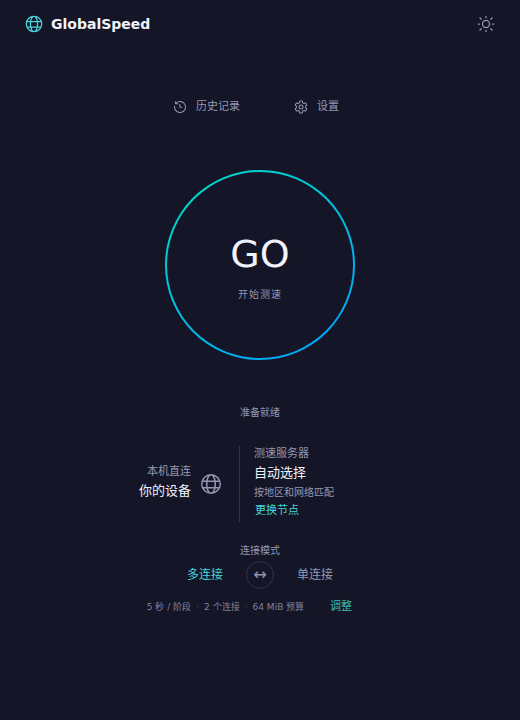
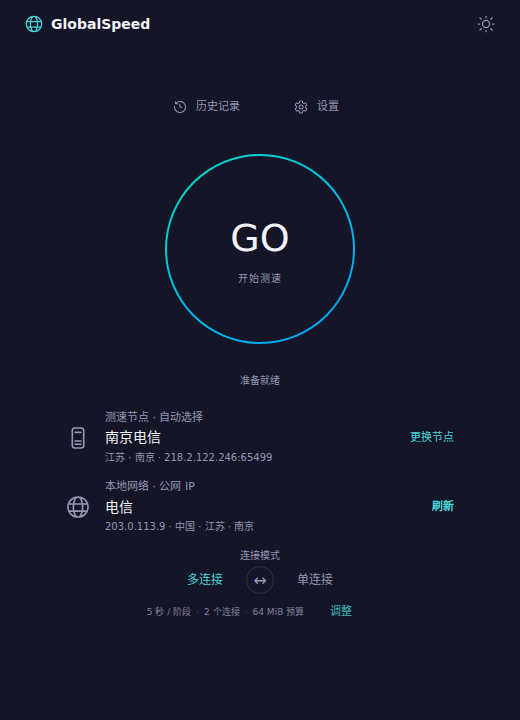
Show public network information and preselect desktop speed server

diff --git a/frontend/src/main.tsx b/frontend/src/main.tsx
@@ -1,7 +1,7 @@
 import React, {useEffect, useMemo, useState} from 'react';
 import {createRoot} from 'react-dom/client';
 import {FluentProvider,webLightTheme,webDarkTheme,Button,Card,Select,Input,Field,Table,TableHeader,TableRow,TableHeaderCell,TableBody,TableCell,Switch,Dialog,DialogSurface,DialogBody,DialogTitle,DialogContent,DialogActions} from '@fluentui/react-components';
-import {ArrowDown24Regular,ArrowUp24Regular,Dismiss24Regular,Globe24Regular,History24Regular,Settings24Regular,Search24Regular,WeatherMoon24Regular,WeatherSunny24Regular} from '@fluentui/react-icons';
+import {ArrowDown24Regular,ArrowUp24Regular,Dismiss24Regular,Globe24Regular,Server24Regular,History24Regular,Settings24Regular,Search24Regular,WeatherMoon24Regular,WeatherSunny24Regular} from '@fluentui/react-icons';
 import './style.css';
 import {Speedometer} from './Speedometer';
 import {useAnimatedSpeed} from './useAnimatedSpeed';
@@ -12,7 +12,8 @@ type Ping={method:string;averageMs:number;jitterMs:number;sent:number;received:n
 type Result={ping?:Ping;time:string;server:Server;path:string;tcpMedianMs:number;tcpJitterMs:number;httpMedianMs?:number;httpJitterMs?:number;download:Transfer;upload:Transfer;released:boolean};
 type Progress={ping?:Ping;server?:Server;phase:string;mbps:number;bytes:number;elapsedMs:number;tcpMedianMs?:number;tcpJitterMs?:number;httpMedianMs?:number;httpJitterMs?:number};
 type Options={auto:boolean;match:{province:string;operator:string};serverId:string;durationSeconds:number;connections:number;maxMiB:number};
-type Bridge={ListServers:()=>Promise<Server[]>;History:()=>Promise<Result[]>;StartSpeed:(o:Options)=>Promise<void>;StopSpeed:()=>Promise<void>};
+type NetworkInfo={ip:string;operator:string;country:string;province:string;city:string;location:string};
+type Bridge={NetworkInfo:()=>Promise<NetworkInfo>;SelectServer:(o:{ip:string;province:string;city:string;operator:string})=>Promise<Server>;ListServers:()=>Promise<Server[]>;History:()=>Promise<Result[]>;StartSpeed:(o:Options)=>Promise<void>;StopSpeed:()=>Promise<void>};
 declare global{interface Window{go?:{main:{App:Bridge}};runtime?:{EventsOn:(name:string,handler:(data:any)=>void,max:number)=>void;EventsOff:(name:string)=>void}}}
 const bridge=()=>window.go?.main.App;
 const number=(value:number|undefined)=>value===undefined?'—':value.toFixed(2);
@@ -24,6 +25,8 @@ function App(){
  const [duration,setDuration]=useState(5);const [connections,setConnections]=useState(2);const [budget,setBudget]=useState(64);
  const [latency,setLatency]=useState<Ping|null>(null);
  const [auto,setAuto]=useState(true);const [autoNode,setAutoNode]=useState<Server|null>(null);
+ const [networkInfo,setNetworkInfo]=useState<NetworkInfo|null>(null);const [networkLoading,setNetworkLoading]=useState(true);const [networkError,setNetworkError]=useState('');
+ const [selecting,setSelecting]=useState(true);const [selectionVersion,setSelectionVersion]=useState(0);
  const [matchFailure,setMatchFailure]=useState(false);
  const [running,setRunning]=useState(false);const [closing,setClosing]=useState(false);const [status,setStatus]=useState('准备就绪');const [error,setError]=useState('');
  const [progress,setProgress]=useState<Progress|null>(null);const [result,setResult]=useState<Result|null>(null);const [rates,setRates]=useState<{download?:number;upload?:number}>({});const [tablePage,setTablePage]=useState(0);
@@ -31,12 +34,20 @@ function App(){
  const filtered=useMemo(()=>servers.filter(s=>(!province||s.pname===province)&&(!operator||s.oper===operator)&&(!search||`${s.hostname} ${s.hostip} ${s.location}`.includes(search))),[servers,province,operator,search]);
  const selected=auto?autoNode:servers.find(s=>s.hostid===serverId);
  useEffect(()=>{if(!filtered.some(s=>s.hostid===serverId))setServerId(filtered[0]?.hostid||'');setTablePage(0)},[filtered]);
- useEffect(()=>{if(running)return;setLatency(null);setResult(null);setProgress(null);setRates({});setError('');setStatus('准备就绪')},[serverId]);
+ useEffect(()=>{if(running)return;setLatency(null);setResult(null);setProgress(null);setRates({});setError('');if(!auto)setStatus('准备就绪')},[serverId]);
+ useEffect(()=>{
+  if(!auto){setSelecting(false);return}if(networkLoading)return;
+  const app=bridge();if(!app){setSelecting(false);return}
+  let active=true;setSelecting(true);setAutoNode(null);setResult(null);setLatency(null);setRates({});setClosing(false);setError('');setMatchFailure(false);setStatus('正在自动选择节点');
+  app.SelectServer({ip:networkInfo?.ip||'',province:province||networkInfo?.province||'',city:province&&province!==networkInfo?.province?'':networkInfo?.city||'',operator:operator||networkInfo?.operator||''}).then(server=>{if(!active)return;setAutoNode(server);setStatus('准备就绪')}).catch(e=>{if(!active)return;const message=String(e);setStatus(`服务器匹配失败(${message}).`);setError(message);setMatchFailure(true)}).finally(()=>{if(active)setSelecting(false)});
+  return()=>{active=false};
+ },[auto,province,operator,networkLoading,networkInfo,selectionVersion]);
  useEffect(()=>{if(!error||matchFailure)return;const timer=setTimeout(()=>setError(''),4000);return()=>clearTimeout(timer)},[error,matchFailure]);
  useEffect(()=>{if(!closing)return;const timer=setTimeout(()=>setClosing(false),matchMedia('(prefers-reduced-motion: reduce)').matches?0:820);return()=>clearTimeout(timer)},[closing]);
  useEffect(()=>{document.documentElement.dataset.theme=dark?'dark':'light';localStorage.setItem('theme',dark?'dark':'light')},[dark]);
  useEffect(()=>{
   const app=bridge();if(!app){setStatus('请使用桌面程序启动测速');return}
+  app.NetworkInfo().then(setNetworkInfo).catch(e=>setNetworkError(String(e))).finally(()=>setNetworkLoading(false));
   app.ListServers().then(setServers).catch(e=>setError(String(e)));app.History().then(setRecords).catch(e=>setError(String(e)));
   const events:{[name:string]:(data:any)=>void}={
    'speed:progress':(p:Progress)=>{if(p.ping)setLatency(p.ping);if(p.server)setAutoNode(p.server);setProgress(p);setStatus(phaseNames[p.phase]||p.phase);if(p.phase==='download'||p.phase==='upload')setRates(old=>({...old,[p.phase]:p.mbps}))},
@@ -47,7 +58,7 @@ function App(){
   Object.entries(events).forEach(([name,handler])=>window.runtime?.EventsOn(name,handler,-1));
   return()=>Object.keys(events).forEach(name=>window.runtime?.EventsOff(name));
  },[]);
- async function start(){const app=bridge();if(!app)return;setMatchFailure(false);setClosing(false);setRunning(true);if(auto)setAutoNode(null);setLatency(null);setError('');setResult(null);setProgress(null);setRates({});setStatus('连接所选节点…');try{await app.StartSpeed({auto,match:{province,operator},serverId:auto?'':serverId,durationSeconds:duration,connections,maxMiB:budget})}catch(e){setRunning(false);setStatus('测速失败');setError(String(e))}}
+ async function start(){const app=bridge();if(!app)return;setMatchFailure(false);setClosing(false);setRunning(true);setLatency(null);setError('');setResult(null);setProgress(null);setRates({});setStatus('连接所选节点…');try{await app.StartSpeed({auto,match:{province,operator},serverId:selected?.hostid||serverId,durationSeconds:duration,connections,maxMiB:budget})}catch(e){setRunning(false);setStatus('测速失败');setError(String(e))}}
  async function stop(){setStatus('正在停止并释放会话…');try{await bridge()?.StopSpeed()}catch(e){setError(String(e))}}
  const shownPing=result?.ping??latency;
  const measuring=running&&(progress?.phase==='download'||progress?.phase==='upload');
@@ -57,7 +68,7 @@ function App(){
  const upSpeed=result?.upload.mbps??(running?(progress?.phase==='upload'?(motion.switching?undefined:liveSpeed):rates.upload):undefined);
  const nodeFilters=<div className="filters"><Field label="省份"><Select value={province} disabled={running} onChange={(_,d)=>{setProvince(d.value);setOperator('')}}><option value="">全部省份</option>{provinces.map(p=><option key={p}>{p}</option>)}</Select></Field><Field label="运营商"><Select value={operator} disabled={running} onChange={(_,d)=>setOperator(d.value)}><option value="">全部运营商</option>{['电信','联通','移动','教育网','广电网'].map(o=><option key={o}>{o}</option>)}</Select></Field></div>;
  return <FluentProvider theme={dark?webDarkTheme:webLightTheme} className="app" style={{backgroundColor:'var(--gs-bg)',color:'var(--gs-fg)'}}>
-  <Dialog open={matchFailure} onOpenChange={(_,d)=>setMatchFailure(d.open)}><DialogSurface><DialogBody><DialogTitle>匹配服务器失败，是否重试?</DialogTitle><DialogContent>{error}</DialogContent><DialogActions><Button onClick={()=>setMatchFailure(false)}>取消</Button><Button appearance="primary" onClick={start}>重试</Button></DialogActions></DialogBody></DialogSurface></Dialog>
+  <Dialog open={matchFailure} onOpenChange={(_,d)=>setMatchFailure(d.open)}><DialogSurface><DialogBody><DialogTitle>匹配服务器失败，是否重试?</DialogTitle><DialogContent>{error}</DialogContent><DialogActions><Button onClick={()=>setMatchFailure(false)}>取消</Button><Button appearance="primary" onClick={()=>{setMatchFailure(false);setSelectionVersion(v=>v+1)}}>重试</Button></DialogActions></DialogBody></DialogSurface></Dialog>
   <main className={`page-${page}`}><header><button className="brand" onClick={()=>setPage('speed')}><Globe24Regular/><span>GlobalSpeed</span></button><nav>{[{id:'speed',name:'网络测速'},{id:'history',name:'历史记录'},{id:'settings',name:'设置'}].map(item=><Button key={item.id} appearance="transparent" className={page===item.id?'nav-selected':''} onClick={()=>setPage(item.id)}>{item.name}</Button>)}<Button appearance="transparent" icon={dark?<WeatherSunny24Regular/>:<WeatherMoon24Regular/>} aria-label="切换主题" onClick={()=>setDark(!dark)}/></nav></header>
   <div className={page==='speed'?`content speed-content ${running||closing?'running-state':result?'result-state':'ready-state'}`:'content secondary-content'}>
   {page!=='speed'&&<div className="page-heading"><h1>{({nodes:'选择测速节点',history:'测速历史',settings:'设置'} as Record<string,string>)[page]}</h1><p>{page==='nodes'?'按地区与运营商筛选节点':page==='history'?'最近 100 次成功测量':'采样参数与界面外观'}</p></div>}
@@ -68,14 +79,17 @@ function App(){
    <div className="latency-row"><span title="优先 ICMP；不可用时按原版回退到 TCP，显示均值">Ping{shownPing?` · ${shownPing.method.toUpperCase()}`:''} <b>{number(shownPing?.status===0?shownPing.averageMs:undefined)}</b><small>ms</small></span><i/><span title="按原版算法统计相邻成功样本差值">抖动 <b>{number(shownPing?.status===0?shownPing.jitterMs:undefined)}</b><small>ms</small></span></div>
    <div className={'test-stage '+(running?'is-running':'')}>
     <Speedometer value={liveSpeed} angle={motion.angle} active={measuring} running={running} switching={motion.switching} upload={progress?.phase==='upload'}/>
-    {running||closing?<div className="dial-reading"><span>{closing?'测速完成':motion.switching?'切换阶段':progress?.phase==='upload'?'上传':progress?.phase==='download'?'下载':'连接中'}</span><strong>{closing?number(result?.upload.mbps):progress?.phase==='download'||progress?.phase==='upload'?(motion.switching?'—':number(liveSpeed)):'—'}</strong><small>Mbps</small></div>:<button className="go-button" aria-label="开始测速" disabled={(!auto&&!selected)||!bridge()} onClick={start}><span>GO</span><small>{result?'再测一次':'开始测速'}</small></button>}
+    {running||closing?<div className="dial-reading"><span>{closing?'测速完成':motion.switching?'切换阶段':progress?.phase==='upload'?'上传':progress?.phase==='download'?'下载':'连接中'}</span><strong>{closing?number(result?.upload.mbps):progress?.phase==='download'||progress?.phase==='upload'?(motion.switching?'—':number(liveSpeed)):'—'}</strong><small>Mbps</small></div>:<button className="go-button" aria-label="开始测速" disabled={running||selecting||(auto&&networkLoading)||!selected||!bridge()} onClick={start}><span>GO</span><small>{result?'再测一次':'开始测速'}</small></button>}
    </div>
    <div className="status"><span role="status">{status}</span>{running&&<Button appearance="transparent" className="gauge-stop" icon={<Dismiss24Regular/>} onClick={stop}>停止测速</Button>}</div>
-   <div className="connection-info"><div className="device-info"><Globe24Regular/><div><span>本机直连</span><strong>你的设备</strong></div></div><div className="server-info"><div><span>测速服务器</span><strong>{selected?.hostname||(auto?'自动选择':'选择节点')}</strong><small>{selected?`${selected.hostip}:${selected.port}`:(auto?'按地区和网络匹配':'606 个运营商节点')}</small></div><Button appearance="transparent" disabled={running} onClick={()=>setPage('nodes')}>更换节点</Button></div></div>
+   <div className="connection-info">
+    <div className="server-info"><Server24Regular/><div className="network-details"><span>测速节点{auto?' · 自动选择':''}</span><strong>{selected?.hostname||(selecting?'正在选择节点…':'未选择节点')}</strong><small>{selected?`${[selected.pname,selected.location].filter(Boolean).join(' · ')} · ${selected.hostip}:${selected.port}`:'请重试或手动选择节点'}</small></div><Button appearance="transparent" disabled={running} onClick={()=>setPage('nodes')}>更换节点</Button></div>
+    <div className="device-info"><Globe24Regular/><div className="network-details"><span>本地网络 · 公网 IP</span><strong>{networkInfo?.operator||(networkLoading?'正在获取网络信息…':'运营商未知')}</strong><small className="public-ip">{networkInfo?.ip||'—'}{networkInfo?.location?` · ${networkInfo.location}`:''}</small>{networkError&&<small>网络信息获取失败</small>}</div><Button appearance="transparent" disabled={networkLoading||running} onClick={async()=>{setNetworkLoading(true);setNetworkError('');try{setNetworkInfo(await bridge()!.NetworkInfo())}catch(e){setNetworkError(String(e))}finally{setNetworkLoading(false)}}}>刷新</Button></div>
+   </div>
    <div className="connection-mode"><span>连接模式</span><div><Button appearance="transparent" disabled={running} className={connections>1?'mode-active':''} onClick={()=>setConnections(2)}>多连接</Button><span className="connection-divider">↔</span><Button appearance="transparent" disabled={running} className={connections===1?'mode-active':''} onClick={()=>setConnections(1)}>单连接</Button></div></div>
    <div className="test-caption">{duration} 秒 / 阶段 <span>·</span> {connections} 个连接 <span>·</span> {budget} MiB 预算<Button appearance="transparent" size="small" disabled={running} onClick={()=>setPage('settings')}>调整</Button></div>
   </>}
-  {page==='nodes'&&<Card><Button appearance="primary" disabled={running} onClick={()=>{setAuto(true);setAutoNode(null);setLatency(null);setResult(null);setRates({});setError('');setStatus('准备就绪');setPage('speed')}}>自动选择节点</Button>{nodeFilters}<Input contentBefore={<Search24Regular/>} placeholder="搜索名称、地址或城市" value={search} onChange={(_,d)=>setSearch(d.value)}/><Table><TableHeader><TableRow>{['节点','地区','运营商','地址',''].map(x=><TableHeaderCell key={x}>{x}</TableHeaderCell>)}</TableRow></TableHeader><TableBody>{filtered.slice(tablePage*30,(tablePage+1)*30).map(s=><TableRow key={s.hostid}><TableCell>{s.hostname}</TableCell><TableCell>{s.pname} · {s.location}</TableCell><TableCell>{s.oper||'其他'}</TableCell><TableCell className="mono">{s.hostip}:{s.port}</TableCell><TableCell><Button size="small" disabled={running} onClick={()=>{setAuto(false);setAutoNode(null);setLatency(null);setResult(null);setRates({});setError('');setStatus('准备就绪');setServerId(s.hostid);setPage('speed')}}>选择</Button></TableCell></TableRow>)}</TableBody></Table><div className="pagination"><span>{filtered.length} 个节点 · 第 {tablePage+1} 页</span><Button disabled={tablePage===0} onClick={()=>setTablePage(tablePage-1)}>上一页</Button><Button disabled={(tablePage+1)*30>=filtered.length} onClick={()=>setTablePage(tablePage+1)}>下一页</Button></div></Card>}
+  {page==='nodes'&&<Card><Button appearance="primary" disabled={running} onClick={()=>{setAuto(true);setSelectionVersion(v=>v+1);setAutoNode(null);setLatency(null);setResult(null);setRates({});setError('');setStatus('准备就绪');setPage('speed')}}>自动选择节点</Button>{nodeFilters}<Input contentBefore={<Search24Regular/>} placeholder="搜索名称、地址或城市" value={search} onChange={(_,d)=>setSearch(d.value)}/><Table><TableHeader><TableRow>{['节点','地区','运营商','地址',''].map(x=><TableHeaderCell key={x}>{x}</TableHeaderCell>)}</TableRow></TableHeader><TableBody>{filtered.slice(tablePage*30,(tablePage+1)*30).map(s=><TableRow key={s.hostid}><TableCell>{s.hostname}</TableCell><TableCell>{s.pname} · {s.location}</TableCell><TableCell>{s.oper||'其他'}</TableCell><TableCell className="mono">{s.hostip}:{s.port}</TableCell><TableCell><Button size="small" disabled={running} onClick={()=>{setAuto(false);setAutoNode(null);setLatency(null);setResult(null);setRates({});setError('');setStatus('准备就绪');setServerId(s.hostid);setPage('speed')}}>选择</Button></TableCell></TableRow>)}</TableBody></Table><div className="pagination"><span>{filtered.length} 个节点 · 第 {tablePage+1} 页</span><Button disabled={tablePage===0} onClick={()=>setTablePage(tablePage-1)}>上一页</Button><Button disabled={(tablePage+1)*30>=filtered.length} onClick={()=>setTablePage(tablePage+1)}>下一页</Button></div></Card>}
   {page==='history'&&<Card>{records.length?<Table><TableHeader><TableRow>{['时间','节点','下载 Mbps','上传 Mbps','延迟 ms'].map(x=><TableHeaderCell key={x}>{x}</TableHeaderCell>)}</TableRow></TableHeader><TableBody>{records.map((r,i)=><TableRow key={i}><TableCell>{new Date(r.time).toLocaleString()}</TableCell><TableCell>{r.server.hostname}</TableCell><TableCell>{number(r.download.mbps)}</TableCell><TableCell>{number(r.upload.mbps)}</TableCell><TableCell>{number(r.ping?(r.ping.status===0?r.ping.averageMs:undefined):r.httpMedianMs??r.tcpMedianMs)} {r.ping?r.ping.method.toUpperCase():r.httpMedianMs===undefined?'TCP':'HTTP'}</TableCell></TableRow>)}</TableBody></Table>:<div className="empty"><History24Regular/><h2>还没有测速记录</h2><p>完成一次测速后，结果会出现在这里。</p></div>}</Card>}
   {page==='settings'&&<Card className="settings-card"><h2>采样参数</h2><Field label="每阶段时长"><Select disabled={running} value={duration} onChange={(_,d)=>setDuration(Number(d.value))}>{[5,10,15,30].map(n=><option key={n} value={n}>{n} 秒</option>)}</Select></Field><Field label="并发连接"><Select disabled={running} value={connections} onChange={(_,d)=>setConnections(Number(d.value))}>{[1,2,4,6].map(n=><option key={n} value={n}>{n}</option>)}</Select></Field><Field label="总流量预算"><Select disabled={running} value={budget} onChange={(_,d)=>setBudget(Number(d.value))}>{[64,128,256,512].map(n=><option key={n} value={n}>{n} MiB</option>)}</Select></Field><h2>外观</h2><Switch label="深色模式" checked={dark} onChange={(_,d)=>setDark(d.checked)}/><p className="muted">测速直接从设备连接所选运营商。所有历史记录均保存在本机。</p></Card>}
   </div></main>

diff --git a/frontend/src/style.css b/frontend/src/style.css
@@ -73,3 +73,14 @@ html,body,#root{height:100%;overflow:hidden}
 @media(max-width:600px) and (max-height:680px){
  .ready-state{padding-top:20px}.ready-state .test-stage{width:170px;height:170px;margin:30px auto 24px}.connection-mode{margin-top:14px}.result-state .test-stage{margin:12px auto 8px}.result-state .connection-info{margin-top:12px}
 }
+
+/* Server first, local network second, as in the desktop speed test app. */
+.connection-info{display:flex;flex-direction:column;gap:14px;max-width:390px;margin-top:18px}
+.connection-info .server-info,.connection-info .device-info{display:flex;flex-direction:row;align-items:center;text-align:left;border:0;padding:0;gap:14px;min-height:54px}
+.connection-info .server-info>svg,.connection-info .device-info>svg{width:26px;height:26px;flex-shrink:0;color:var(--gs-muted)}
+.network-details{flex:1;min-width:0}.connection-info .network-details strong{font-size:14px;margin:3px 0;overflow-wrap:anywhere}.connection-info .network-details small{font-size:10px;overflow-wrap:anywhere;line-height:1.45}.connection-info button{color:var(--gs-accent)!important;font-size:11px!important;min-width:0!important;flex-shrink:0;padding:2px 0!important}
+.connection-mode{margin-top:14px}.running-state .connection-info{margin-top:12px;gap:10px}.running-state .test-stage{--gauge-width:clamp(245px,calc((100dvh - 385px)*1.12),380px)}
+.ready-state .test-stage{margin-top:32px;margin-bottom:24px}
+@media(max-height:680px){.connection-info{gap:9px;margin-top:14px}.connection-info .server-info,.connection-info .device-info{min-height:46px}.connection-info .network-details strong{font-size:13px}.ready-state .test-stage{width:150px;height:150px;margin:22px auto 16px}.running-state .test-stage{--gauge-width:clamp(210px,calc((100dvh - 370px)*1.12),330px)}.running-state .dial-reading strong{font-size:26px}.result-state .test-stage{margin:10px auto 6px}.connection-mode{margin-top:10px}}
+@media(max-height:560px){.ready-state{padding-top:8px}.ready-state .test-stage{width:130px;height:130px;margin:12px auto}.connection-info{gap:6px;margin-top:10px}.connection-info .server-info,.connection-info .device-info{min-height:42px}.connection-mode{margin-top:6px}.result-state .test-stage{width:72px;height:72px;margin:6px auto}.result-state .connection-info{margin-top:8px}}
+@media(max-height:680px){.running-state .dial-reading{top:62%}}

diff --git a/main_desktop.go b/main_desktop.go
@@ -7,6 +7,7 @@ import (
 	_ "embed"
 	"fmt"
 	"sync"
+	"time"
 
 	"github.com/wailsapp/wails/v2"
 	"github.com/wailsapp/wails/v2/pkg/options"
@@ -17,6 +18,7 @@ import (
 	"globalspeed/frontend"
 	"globalspeed/internal/catalog"
 	"globalspeed/internal/history"
+	"globalspeed/internal/networkinfo"
 	"globalspeed/internal/speed"
 )
 
@@ -24,16 +26,52 @@ import (
 var appIcon []byte
 
 type App struct {
-	ctx     context.Context
-	mu      sync.Mutex
-	cancel  context.CancelFunc
-	wg      sync.WaitGroup
-	closing bool
+	ctx             context.Context
+	mu              sync.Mutex
+	cancel          context.CancelFunc
+	wg              sync.WaitGroup
+	closing         bool
+	selected        map[string]catalog.Server
+	selectionCancel context.CancelFunc
 }
 
-func (a *App) startup(ctx context.Context)      { a.ctx = ctx }
+func (a *App) startup(ctx context.Context) {
+	a.ctx = ctx
+	a.selected = make(map[string]catalog.Server)
+}
 func (a *App) ListServers() []catalog.Server    { return catalog.Servers("", "") }
 func (a *App) History() ([]speed.Result, error) { return history.Load() }
+func (a *App) NetworkInfo() (networkinfo.Info, error) {
+	return networkinfo.Lookup(a.ctx, speed.NewClient().HTTP, networkinfo.Endpoint)
+}
+func (a *App) SelectServer(o speed.MatchOptions) (catalog.Server, error) {
+	a.mu.Lock()
+	if a.closing {
+		a.mu.Unlock()
+		return catalog.Server{}, fmt.Errorf("应用正在退出")
+	}
+	if a.cancel != nil {
+		a.mu.Unlock()
+		return catalog.Server{}, speed.Failure(992, nil)
+	}
+	if a.selectionCancel != nil {
+		a.selectionCancel()
+	}
+	ctx, cancel := context.WithTimeout(a.ctx, 45*time.Second)
+	a.selectionCancel = cancel
+	a.wg.Add(1)
+	a.mu.Unlock()
+	defer a.wg.Done()
+	defer cancel()
+	selected, err := speed.NewClient().Match(ctx, o, nil)
+	if err != nil {
+		return catalog.Server{}, speed.PublicError(err)
+	}
+	a.mu.Lock()
+	a.selected[selected.ID] = selected
+	a.mu.Unlock()
+	return selected, nil
+}
 func (a *App) StartSpeed(o speed.Options) error {
 	if err := o.Validate(); err != nil {
 		return err
@@ -51,12 +89,28 @@ func (a *App) StartSpeed(o speed.Options) error {
 	if a.cancel != nil {
 		return speed.Failure(992, nil)
 	}
+	var selected *catalog.Server
+	if o.Auto {
+		server, ok := a.selected[o.ServerID]
+		if !ok {
+			return speed.Failure(139, nil)
+		}
+		selected = &server
+	}
 	ctx, cancel := context.WithCancel(a.ctx)
 	a.cancel = cancel
 	a.wg.Add(1)
 	go func() {
 		defer a.wg.Done()
-		result, err := speed.NewClient().Run(ctx, o, func(p speed.Progress) { runtime.EventsEmit(a.ctx, "speed:progress", p) })
+		client := speed.NewClient()
+		progress := func(p speed.Progress) { runtime.EventsEmit(a.ctx, "speed:progress", p) }
+		var result speed.Result
+		var err error
+		if selected != nil {
+			result, err = client.RunSelected(ctx, o, *selected, progress)
+		} else {
+			result, err = client.Run(ctx, o, progress)
+		}
 		if err == nil {
 			if saveErr := history.Save(result); saveErr != nil {
 				runtime.EventsEmit(a.ctx, "speed:notice", "历史保存失败: "+saveErr.Error())
@@ -84,6 +138,9 @@ func (a *App) StopSpeed() {
 func (a *App) shutdown(context.Context) {
 	a.mu.Lock()
 	a.closing = true
+	if a.selectionCancel != nil {
+		a.selectionCancel()
+	}
 	if a.cancel != nil {
 		a.cancel()
 	}

diff --git a/internal/networkinfo/networkinfo.go b/internal/networkinfo/networkinfo.go
@@ -1,0 +1,73 @@
+package networkinfo
+
+import (
+	"context"
+	"encoding/json"
+	"errors"
+	"io"
+	"net"
+	"net/http"
+	"strings"
+	"time"
+)
+
+const Endpoint = "https://myip.ipip.net/json"
+
+type Info struct {
+	IP       string `json:"ip"`
+	Operator string `json:"operator"`
+	Country  string `json:"country"`
+	Province string `json:"province"`
+	City     string `json:"city"`
+	Location string `json:"location"`
+}
+
+// Lookup reports the public address visible to IPIP, rather than a LAN address.
+func Lookup(ctx context.Context, client *http.Client, endpoint string) (Info, error) {
+	ctx, cancel := context.WithTimeout(ctx, 8*time.Second)
+	defer cancel()
+	req, err := http.NewRequestWithContext(ctx, http.MethodGet, endpoint, nil)
+	if err != nil {
+		return Info{}, errors.New("公网 IP 获取失败")
+	}
+	resp, err := client.Do(req)
+	if err != nil {
+		return Info{}, errors.New("公网 IP 获取失败")
+	}
+	defer resp.Body.Close()
+	if resp.StatusCode != http.StatusOK {
+		return Info{}, errors.New("公网 IP 服务响应错误")
+	}
+	data, err := io.ReadAll(io.LimitReader(resp.Body, 16385))
+	if err != nil || len(data) > 16384 {
+		return Info{}, errors.New("公网 IP 服务响应错误")
+	}
+	var response struct {
+		Ret  string `json:"ret"`
+		Data struct {
+			IP       string   `json:"ip"`
+			Location []string `json:"location"`
+		} `json:"data"`
+	}
+	if json.Unmarshal(data, &response) != nil || response.Ret != "ok" || net.ParseIP(response.Data.IP) == nil {
+		return Info{}, errors.New("公网 IP 服务响应错误")
+	}
+	result := Info{IP: response.Data.IP}
+	fields := []*string{&result.Country, &result.Province, &result.City}
+	for i, field := range fields {
+		if i < len(response.Data.Location) {
+			*field = strings.TrimSpace(response.Data.Location[i])
+		}
+	}
+	if len(response.Data.Location) > 4 {
+		result.Operator = strings.TrimSpace(response.Data.Location[4])
+	}
+	var parts []string
+	for _, field := range fields {
+		if *field != "" && (len(parts) == 0 || parts[len(parts)-1] != *field) {
+			parts = append(parts, *field)
+		}
+	}
+	result.Location = strings.Join(parts, " · ")
+	return result, nil
+}

diff --git a/internal/networkinfo/networkinfo_test.go b/internal/networkinfo/networkinfo_test.go
@@ -1,0 +1,32 @@
+package networkinfo
+
+import (
+	"context"
+	"io"
+	"net/http"
+	"strings"
+	"testing"
+)
+
+type transportFunc func(*http.Request) (*http.Response, error)
+
+func (f transportFunc) RoundTrip(r *http.Request) (*http.Response, error) { return f(r) }
+func TestIPIPResponse(t *testing.T) {
+	client := &http.Client{Transport: transportFunc(func(r *http.Request) (*http.Response, error) {
+		return &http.Response{StatusCode: 200, Body: io.NopCloser(strings.NewReader(`{"ret":"ok","data":{"ip":"203.0.113.9","location":["中国","江苏","南京","","电信"]}}`))}, nil
+	})}
+	info, err := Lookup(context.Background(), client, Endpoint)
+	if err != nil || info.IP != "203.0.113.9" || info.Operator != "电信" || info.Province != "江苏" || info.Location != "中国 · 江苏 · 南京" {
+		t.Fatalf("%+v %v", info, err)
+	}
+}
+func TestIPIPInvalidResponses(t *testing.T) {
+	for _, body := range []string{`{"ret":"error"}`, `{"ret":"ok","data":{"ip":"invalid"}}`, strings.Repeat("x", 16385)} {
+		client := &http.Client{Transport: transportFunc(func(r *http.Request) (*http.Response, error) {
+			return &http.Response{StatusCode: 200, Body: io.NopCloser(strings.NewReader(body))}, nil
+		})}
+		if _, err := Lookup(context.Background(), client, Endpoint); err == nil {
+			t.Fatal("invalid response accepted")
+		}
+	}
+}

diff --git a/internal/speed/speed.go b/internal/speed/speed.go
@@ -170,7 +170,15 @@ func (c *Client) session(ctx context.Context, base string) (string, error) {
 	return key, nil
 }
 
-func (c *Client) Run(ctx context.Context, o Options, progress func(Progress)) (result Result, err error) {
+func (c *Client) Run(ctx context.Context, o Options, progress func(Progress)) (Result, error) {
+	return c.run(ctx, o, nil, progress)
+}
+
+// RunSelected uses a server already returned by Match, including servers absent from the snapshot.
+func (c *Client) RunSelected(ctx context.Context, o Options, selected catalog.Server, progress func(Progress)) (Result, error) {
+	return c.run(ctx, o, &selected, progress)
+}
+func (c *Client) run(ctx context.Context, o Options, selected *catalog.Server, progress func(Progress)) (result Result, err error) {
 	defer func() {
 		if err != nil {
 			err = PublicError(err)
@@ -181,7 +189,9 @@ func (c *Client) Run(ctx context.Context, o Options, progress func(Progress)) (r
 	}
 	result.Time = time.Now()
 	result.Path = "device-to-carrier"
-	if o.Auto {
+	if selected != nil {
+		result.Server = *selected
+	} else if o.Auto {
 		result.Server, err = c.Match(ctx, o.Match, progress)
 	} else {
 		result.Server, err = catalog.Find(o.ServerID)

diff --git a/internal/speed/status_test.go b/internal/speed/status_test.go
@@ -4,6 +4,7 @@ import (
 	"context"
 	"errors"
 	"fmt"
+	"globalspeed/internal/catalog"
 	"net/http"
 	"net/http/httptest"
 	"testing"
@@ -47,5 +48,15 @@ func TestSessionHTTPFailureIsNotRetried(t *testing.T) {
 	_, err := NewClient().session(context.Background(), server.URL)
 	if PublicError(err).Code != 131 || attempts != 1 {
 		t.Fatalf("attempts=%d err=%v", attempts, err)
+	}
+}
+
+func TestRunSelectedUsesMatchedServerOutsideCatalog(t *testing.T) {
+	ctx, cancel := context.WithCancel(context.Background())
+	cancel()
+	selected := catalog.Server{ID: "new-match-only", IP: "203.0.113.8", Port: "65499", Name: "Matched server"}
+	result, err := NewClient().RunSelected(ctx, Options{Auto: true, DurationSeconds: 1, Connections: 1, MaxMiB: 1}, selected, nil)
+	if result.Server.ID != selected.ID || PublicError(err).Code != 990 {
+		t.Fatalf("server=%+v err=%v", result.Server, err)
 	}
 }

diff --git a/README.md b/README.md
@@ -4,6 +4,8 @@
 
 桌面使用 Wails v2、React 和 Fluent UI，采用中央 GO 按钮、紧凑的服务器信息和单/多连接切换；测速时显示弧形刻度与指针速度表，支持深浅主题。
 
+公网网络信息通过本机访问 `https://myip.ipip.net/json` 获取，显示的是出口公网 IP。获取失败不会阻止节点选择；自动匹配会使用已获取的 IP、地区和运营商作为提示。
+
 桌面默认窗口为 520×760，最小为 480×680，采用紧凑竖向比例。测速主页面随客户区高度调整尺寸；节点目录与历史页保留独立滚动。
 
 ![GlobalSpeed desktop](docs/desktop-preview.png)
@@ -15,7 +17,8 @@
 - 606 个节点、31 个地区，按省份、运营商和关键词选择。
 - 下载与上传测速，可设置采样时长、并发连接和流量预算。
 - ICMP Ping 平均延迟与抖动；不可用时回退到 TCP。
-- 自动匹配节点，也可手动选择。
+- 启动后自动匹配并显示测速节点，点击 GO 使用已选结果，也可手动换点。
+- 速度表下方先显示测速节点，再显示本地网络的公网 IP、运营商和地区，支持刷新。
 - 停止测试、JSON 输出、本机 DNS 查询。
 - 桌面与 CLI 共用本地历史，最多保留 100 条成功记录。
 
